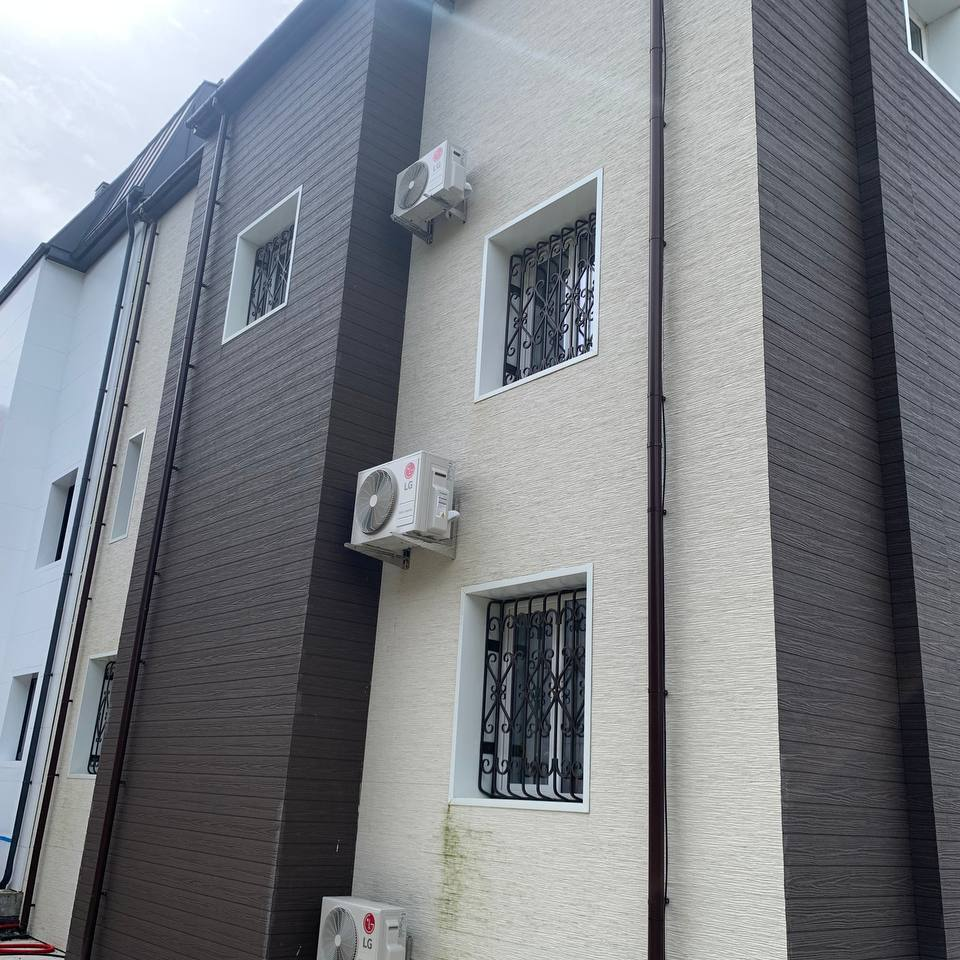
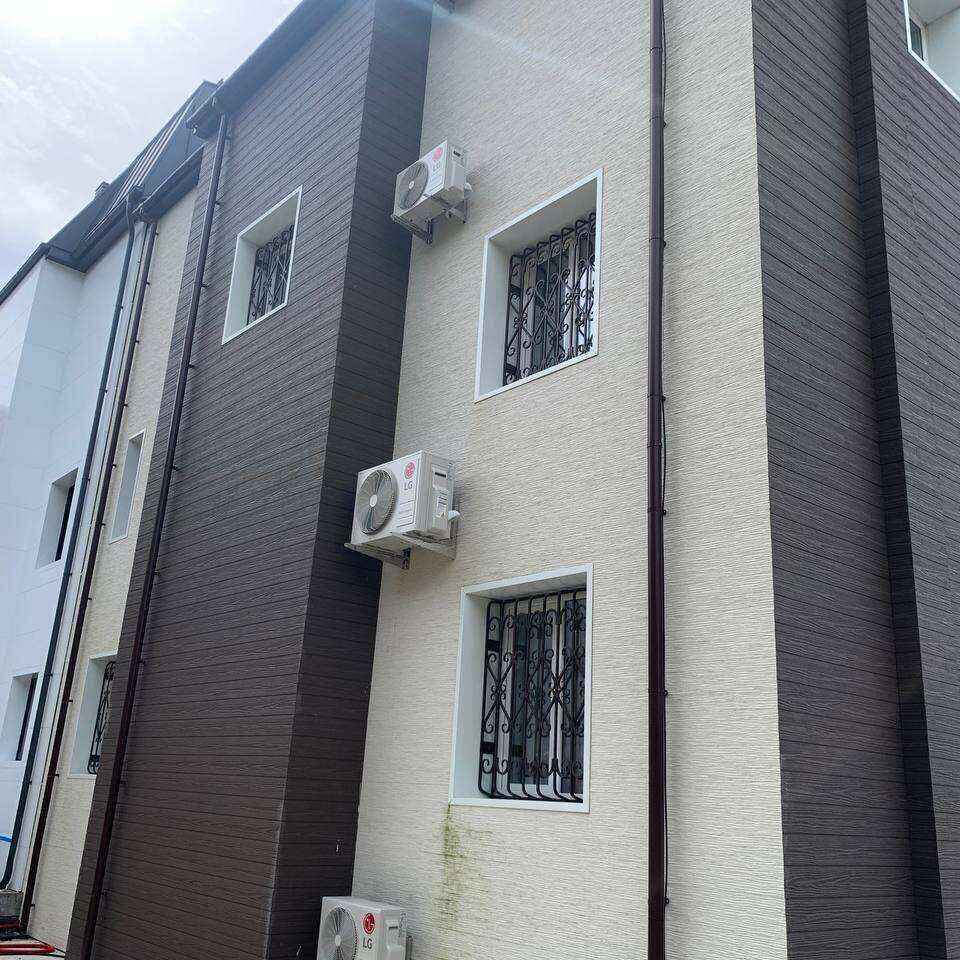
chore: compress montage photos (JPEG q40 + WebP)

diff --git a/ac/index.html b/ac/index.html
@@ -1038,7 +1038,7 @@
         <img src="images/montage_1.jpg" alt="Пример монтажа кондиционера" loading="lazy">
       </div>
       <div class="montage-item">
-        <img src="images/montage_3.jpg" alt="Пример монтажа кондиционера" loading="lazy">
+        <img src="images/montage_3.webp" alt="Пример монтажа кондиционера" loading="lazy">
       </div>
     </div>
   </section>